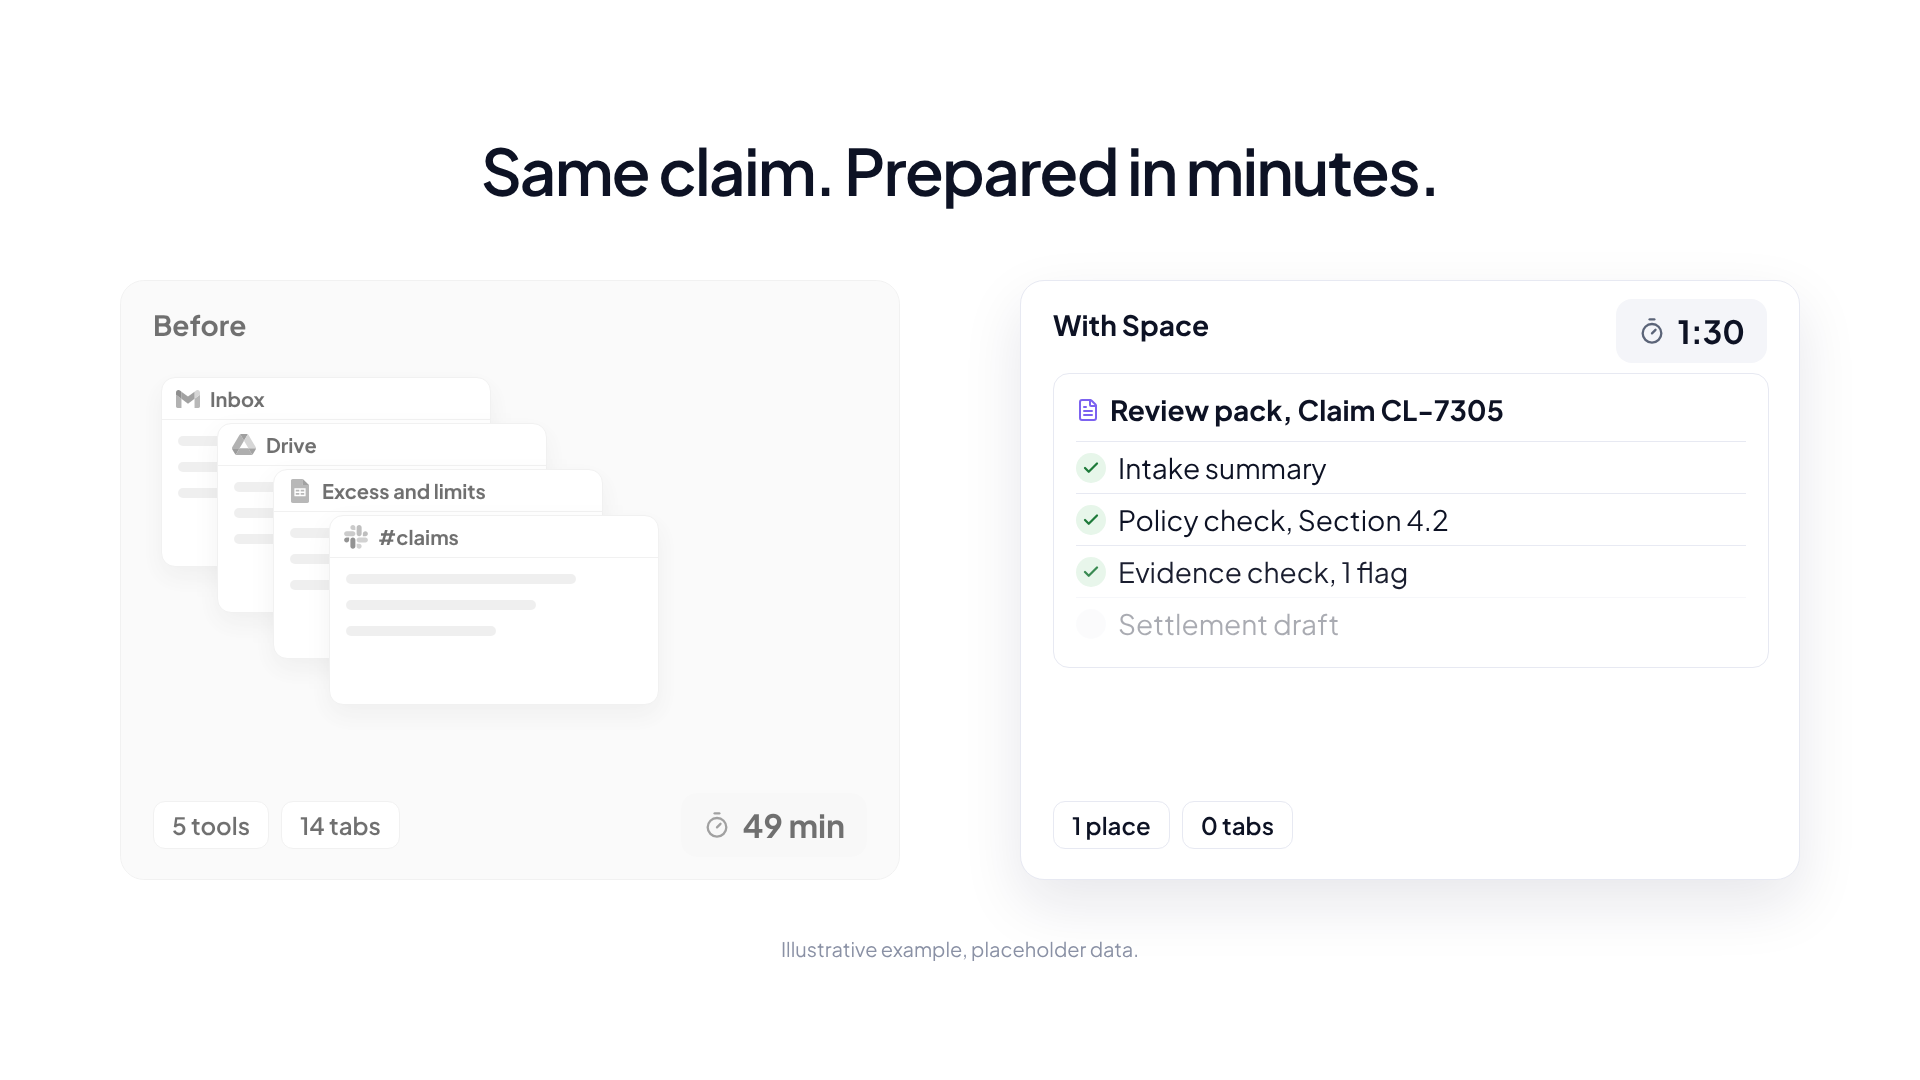
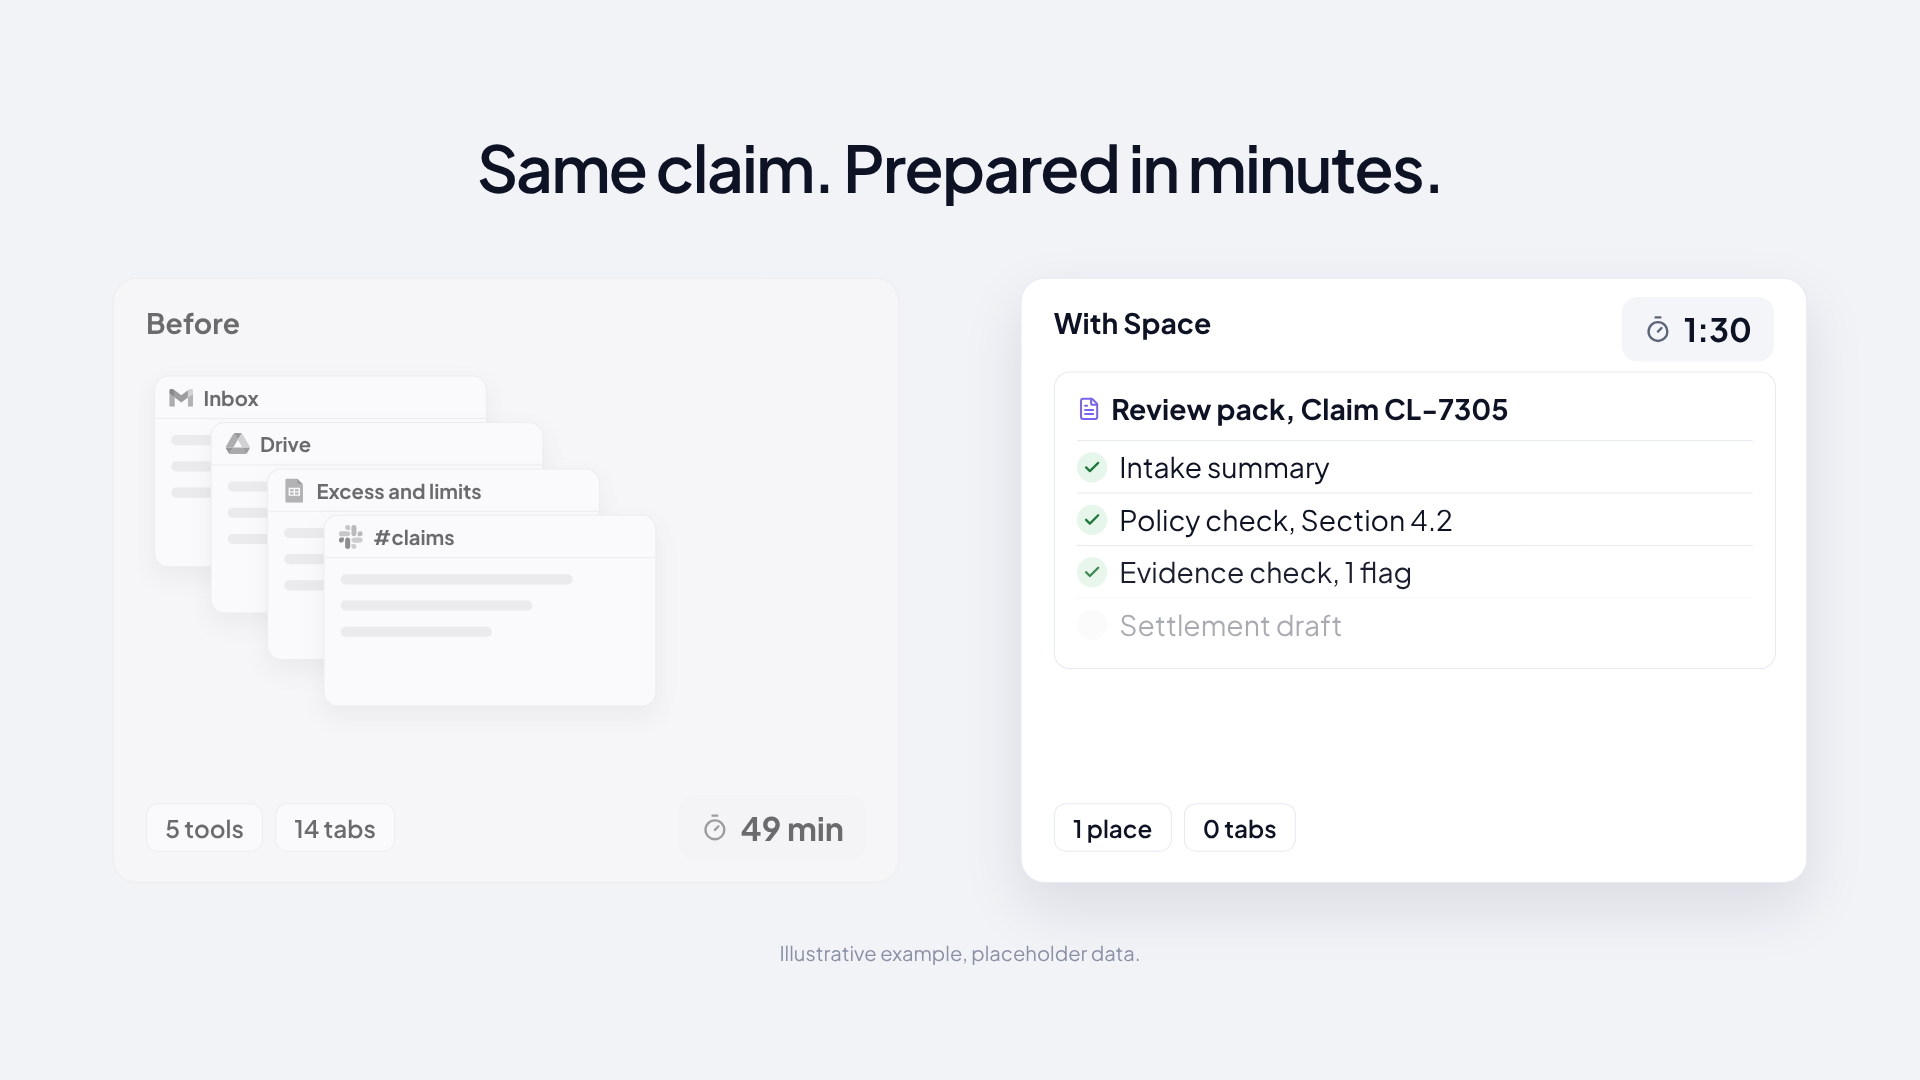
Continuity fixes: stopwatch carried into Scene 8, Scene 11 tile fades in over the clicked tile with the cursor kept, soft drift and tinted ground so the end card visibly grows
Claude-Session: https://claude.ai/code/session_01RzJ2iPxRFapzmNmFA8Xcuj

diff --git a/space-explainer/src/scenes/Scene11Contrast.tsx b/space-explainer/src/scenes/Scene11Contrast.tsx
@@ -73,6 +73,14 @@ export const Scene11Contrast: React.FC = () => {
   const R = { x: PANEL.right, y: PANEL.y, w: PANEL.w, h: PANEL.h };
   const rOut = { x: R.x * (1 - out), y: R.y * (1 - out), w: R.w + (1920 - R.w) * out, h: R.h + (1080 - R.h) * out };
   const words = C.line.split(" ");
+  // The tile fades in over the clicked tile (so the cursor and the first frame match Scene 10), then tints
+  // to a soft grey under the panels so the With Space card visibly grows to white at the end.
+  const tileIn = EASE(ramp(t, 0, 0.3));
+  const tint = panels * (1 - out);
+  const mix = (a: number, b: number) => Math.round(a + (b - a) * tint);
+  const tileBg = `rgba(${mix(255, 242)},${mix(255, 243)},${mix(255, 247)},${tileIn})`;
+  // A slow push in keeps the frame alive while the stopwatches run.
+  const drift = 1 + 0.03 * ramp(t, S11.panels[0], S11.out[1]);
   return (
     <AbsoluteFill style={{ width: 1920, height: 1080, background: "#FFFFFF" }}>
       {g < 1 ? (
@@ -81,15 +89,16 @@ export const Scene11Contrast: React.FC = () => {
         </AbsoluteFill>
       ) : null}
       {/* The clicked tile, growing into the white frame */}
-      <div style={{ position: "absolute", left: rect.x, top: rect.y, width: rect.w, height: rect.h, background: "#FFFFFF", borderRadius: 14 * (1 - g), boxShadow: g < 1 ? `0 20px 60px rgba(20,24,60,${0.18 * (1 - g)})` : undefined, overflow: "hidden" }}>
+      <div style={{ position: "absolute", left: rect.x, top: rect.y, width: rect.w, height: rect.h, background: tileBg, borderRadius: 14 * (1 - g), boxShadow: g < 1 ? `0 20px 60px rgba(20,24,60,${0.18 * (1 - g) * tileIn})` : undefined, overflow: "hidden" }}>
         {tileText > 0 ? (
-          <div style={{ position: "absolute", left: 20 * (T0.w / 281), top: 16 * (T0.w / 281), opacity: tileText, fontFamily: FONT.sans, transform: `scale(${T0.w / 281})`, transformOrigin: "0 0" }}>
+          <div style={{ position: "absolute", left: 20 * (T0.w / 281), top: 16 * (T0.w / 281), opacity: tileText * tileIn, fontFamily: FONT.sans, transform: `scale(${T0.w / 281})`, transformOrigin: "0 0" }}>
             <div style={{ fontSize: 15.2, color: T.secondary }}>{P.pages.kpis[1].label}</div>
             <div style={{ fontSize: 23.5, fontWeight: 700, color: T.ink, marginTop: 8 }}>{P.pages.kpis[1].value}</div>
           </div>
         ) : null}
       </div>
 
+      <div style={{ position: "absolute", inset: 0, transform: `scale(${drift})`, transformOrigin: "50% 50%" }}>
       {/* Top line */}
       {t >= S11.line ? (
         <div style={{ position: "absolute", left: 0, right: 0, top: LINE_Y, display: "flex", justifyContent: "center", transform: "translateY(-50%)", opacity: 1 - out }}>
@@ -177,6 +186,7 @@ export const Scene11Contrast: React.FC = () => {
         <div style={{ position: "absolute", left: 0, right: 0, top: 936, textAlign: "center", fontFamily: FONT.sans, fontSize: 20, color: "#8A91A5", opacity: panels * (1 - out) }}>{C.footnote}</div>
       ) : null}
 
+      </div>
       <GuardLayer scene={S} />
     </AbsoluteFill>
   );

diff --git a/space-explainer/src/scenes/Scene08Review.tsx b/space-explainer/src/scenes/Scene08Review.tsx
@@ -15,7 +15,7 @@ import { cardX, REVIEWS, ReviewsPage, type ReviewsState } from "../components/pa
 import type { CursorKey } from "../components/Cursor";
 import { typeDuration } from "../lib/typewriter";
 import type { TextBeatSpec } from "../lib/guards";
-import { s7GraphAt, SLACK_NOTE, SlackNotification, S7_END_CAM } from "./Scene07Evening";
+import { s7GraphAt, SLACK_NOTE, SlackNotification, Stopwatch, S7_END_CAM } from "./Scene07Evening";
 import { S2_PLATE } from "./Scene02Intro";
 import { opening, Pills, ProductStage, ramp, useScene, type Pill } from "./shared/stage";
 
@@ -135,6 +135,7 @@ export const Scene08Review: React.FC = () => {
         {toReviews < 1 ? (
           <div style={{ position: "absolute", inset: 0, opacity: 1 - toReviews, filter: blur > 0.05 ? `blur(${blur}px)` : undefined }}>
             <PlaybookGraphPage s={pb} />
+            <Stopwatch t={sceneById("S07").duration} />
             {/* Carried over from Scene 7: clicked, it opens Reviews. */}
             <SlackNotification opacity={1} pressed={Math.max(0, 1 - Math.abs(t - S8.slackClick) / 0.15)} />
           </div>

diff --git a/space-explainer/src/components/Cursor.tsx b/space-explainer/src/components/Cursor.tsx
@@ -74,8 +74,9 @@ export const cursorClickReport = (keys: CursorKey[], fps = 60) =>
 const TIP = { x: 3, y: 1.5 };
 
 /** Standard arrow cursor moving on eased, gently curved paths, with a soft neutral click ripple centred on the hotspot. */
-export const Cursor: React.FC<{ keys: CursorKey[]; opacity?: number; ripple?: "violet" | "neutral" }> = ({ keys, opacity = 1, ripple = "violet" }) => {
-  const frame = useCurrentFrame();
+export const Cursor: React.FC<{ keys: CursorKey[]; opacity?: number; ripple?: "violet" | "neutral"; shift?: number }> = ({ keys, opacity = 1, ripple = "violet", shift = 0 }) => {
+  // `shift` freezes a carried-over cursor at its own scene time (frozen end frames).
+  const frame = useCurrentFrame() - shift;
   const { fps } = useVideoConfig();
   const t = frame / fps;
   const { x, y } = cursorPosAt(keys, t);

diff --git a/space-explainer/src/scenes/Scene10Pages.tsx b/space-explainer/src/scenes/Scene10Pages.tsx
@@ -117,7 +117,7 @@ const Scene10Body: React.FC<{ t: number; F: (s: number) => number; clock: number
     <>
       <PlateBackground plate="03" duration={F(def.duration)} kbFrom={S9_KB_END} kbTo={S10_KB_END} timeOffset={def.start - 15} {...S2_PLATE} />
       <FeatureTitle text={S10_TITLE} startFrame={F(TITLE_START) + shift} variant="compact" />
-      <ProductStage cam={cam} frameStyle={o.frameStyle} visible={o.visible} cursor={{ keys: S10_CURSOR, opacity: cursorO }}>
+      <ProductStage cam={cam} frameStyle={o.frameStyle} visible={o.visible} cursor={{ keys: S10_CURSOR, opacity: cursorO, shift }}>
         {o.showPrev ? (
           <div data-guard-bg="Scene 9 records, read in Scene 9" style={{ position: "absolute", inset: 0 }}>
             <RecordsPage s={recordsStateAt(sceneById("S09").duration, clock)} />

diff --git a/space-explainer/src/scenes/shared/stage.tsx b/space-explainer/src/scenes/shared/stage.tsx
@@ -42,7 +42,7 @@ export const ProductStage: React.FC<{
   cam: Cam;
   frameStyle?: React.CSSProperties;
   visible?: boolean;
-  cursor?: { keys: CursorKey[]; opacity: number };
+  cursor?: { keys: CursorKey[]; opacity: number; shift?: number };
   children: React.ReactNode;
   overlay?: React.ReactNode;
 }> = ({ cam, frameStyle, visible = true, cursor, children, overlay }) =>
@@ -52,7 +52,7 @@ export const ProductStage: React.FC<{
         <ProductWindow>{children}</ProductWindow>
         {overlay}
       </div>
-      {cursor && cursor.opacity > 0 ? <Cursor keys={cursor.keys} opacity={cursor.opacity} /> : null}
+      {cursor && cursor.opacity > 0 ? <Cursor keys={cursor.keys} opacity={cursor.opacity} shift={cursor.shift} /> : null}
     </AbsoluteFill>
   ) : null;
 
